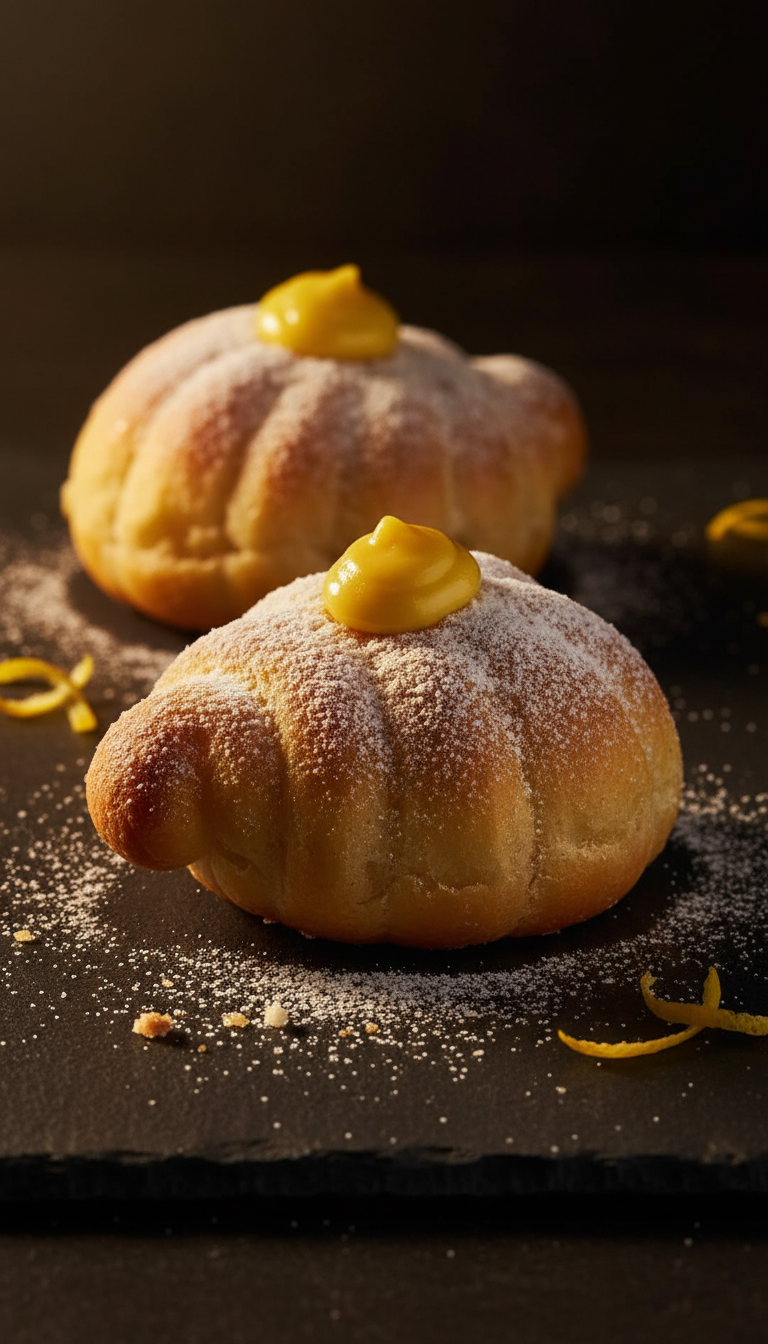
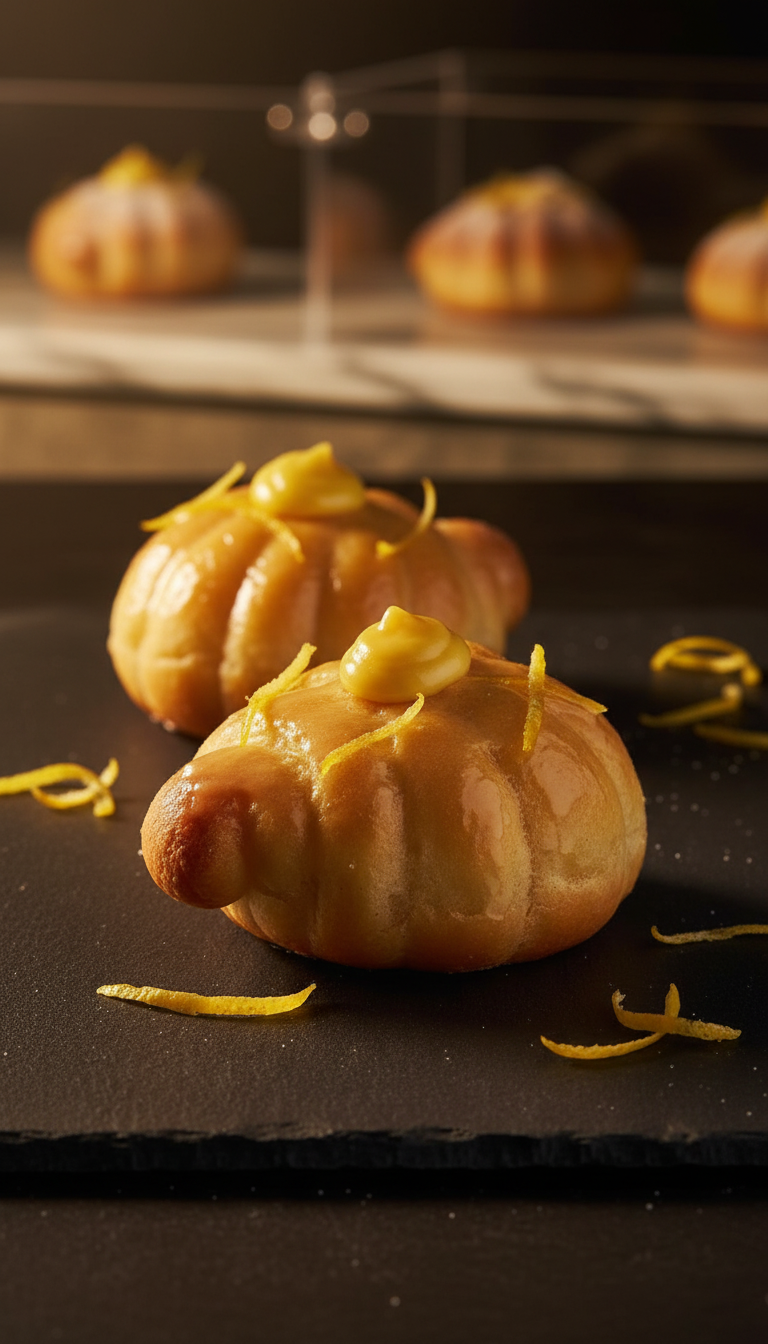
Fix v3 mobile layout and regenerate service/gallery images
- Photos row: aspect-ratio 1:1 on mobile (was 16:9, showing tiny strips)
- Service blocks: add min-height + aspect-ratio to photo halves on mobile
  (were collapsing to 0px due to absolutely positioned images)
- Regenerated 5 images: vetrina-sfera-cioccolato, vetrina-brioche,
  row-gelateria, row-pasticceria, row-caffe

diff --git a/index-v3.html b/index-v3.html
@@ -987,17 +987,20 @@
         text-align: center;
       }
 
-      /* Photos — 2x2 grid on mobile */
+      /* Photos — 2x2 grid on mobile, square cells */
       .photos-row {
         grid-template-columns: repeat(2, 1fr);
         gap: 2px;
+      }
+
+      .photos-row__item {
+        aspect-ratio: 1;
       }
 
       .photos-row__item--hide-mobile {
         display: none;
       }
 
-      /* Add 4th photo on mobile via extra item */
       .photos-row__item--mobile-only {
         display: block;
       }
@@ -1018,7 +1021,11 @@
         padding: 56px 24px;
       }
 
-
+      /* Photo halves need explicit height when stacked */
+      .svc-half--photo-clean {
+        min-height: 280px;
+        aspect-ratio: 4 / 3;
+      }
 
       .svc-half--light {
         padding: 48px 24px;
